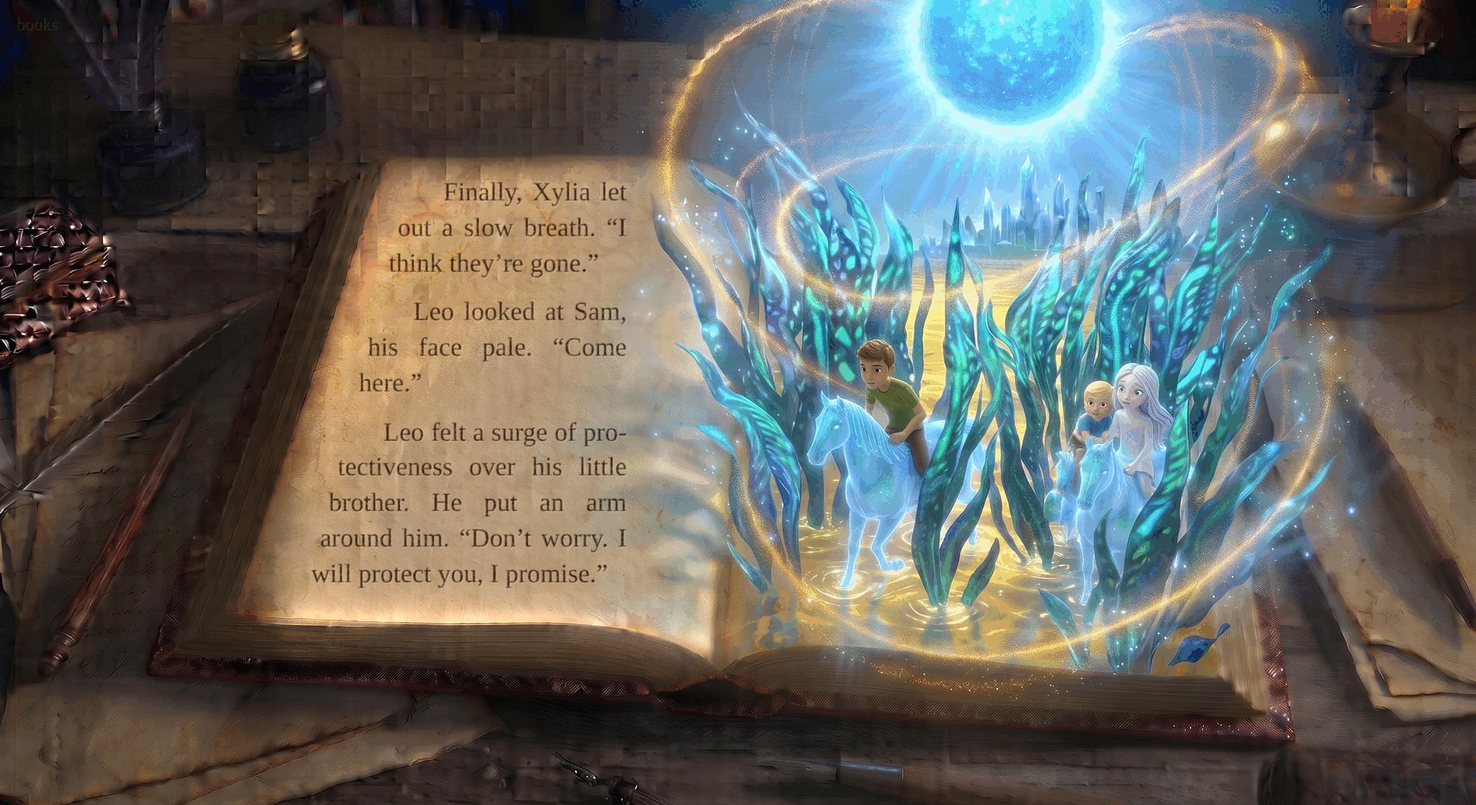
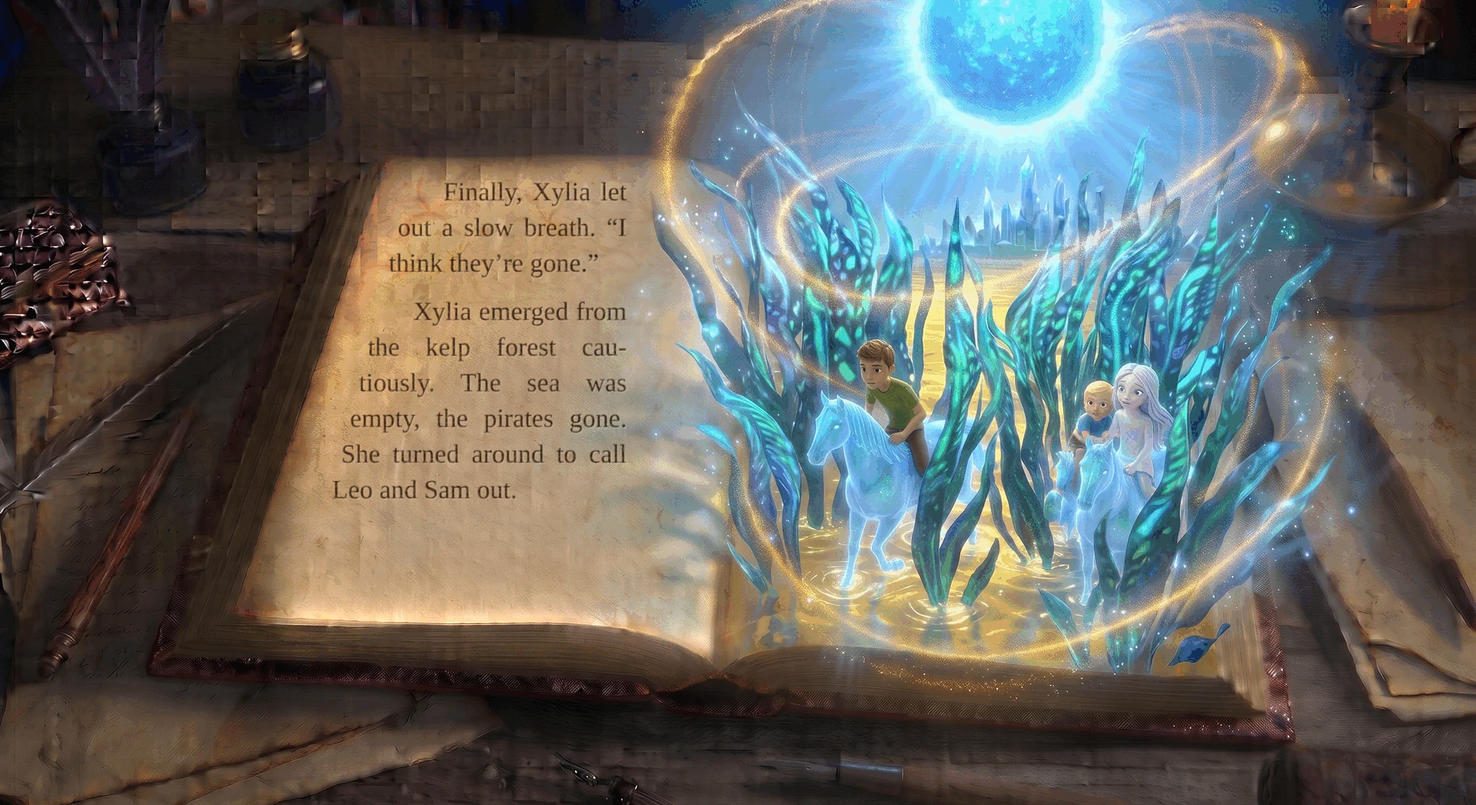
Move Xylia-emerged paragraph to page 94, drop Leo protects Sam lines
Claude-Session: https://claude.ai/code/session_01BFtifSTdmWYaAK88ECs5PE

Changed region(s): [[0.2188, 0.375, 0.4375, 0.7188]]

diff --git a/books/upside-down-world/story.js b/books/upside-down-world/story.js
@@ -95,8 +95,8 @@ window.STORY={"title":"The Upside-Down World","author":"M. A. Mafodh","pages":[
 {"img":"p37","book":true,"box":[374,172,552,596],"parts":["The long, glowing strands of kelp closed around them, hiding them from view. They could hear the pirate wagon zipping past, its engines rumbling. They stayed silent, breathing quietly, hidden in the swaying, silent light.\nFor a long minute, the only sound was the gentle hum of the kelp and their own thumping hearts."],"video":"p37v"},
 {"img":"p37c","book":true,"box":[374,172,552,596],"parts":["While Leo kept watch through the glowing stalks, Sam noticed a tiny, winged sea-hamster tangled in a scrap of dark, crackling pirate netting snagged on a kelp root. The dark cords hissed with purple shadow-energy, but Sam didn't hesitate."],"video":"p37cv"},
 {"img":"p37d","book":true,"box":[374,172,552,596],"parts":["He pressed his small hands over the knots. A warm, golden pulse flared from his palms, dissolving the dark netting into harmless mist. The grateful little creature chirped softly, nudged Sam's cheek, and zipped up toward the top of the kelp canopy."],"video":"p37dv"},
-{"img":"p37b","sprite":"p37k","dust":true,"book":true,"box":[374,170,584,596],"parts":["Finally, Xylia let out a slow breath. \"I think they're gone.\"\nLeo looked at Sam, his face pale. \"Come here.\"\nLeo felt a surge of protectiveness over his little brother. He put an arm around him. \"Don't worry. I will protect you, I promise.\""]},
-{"img":"p38","sprite":"p38k","dust":true,"book":true,"box":[374,170,584,596],"parts":["Xylia emerged from the kelp forest cautiously. The sea was empty, the pirates gone. She turned around to call Leo and Sam out.\nA pirate wagon showed up out of nowhere and kidnapped the future queen."]},
+{"img":"p37b","sprite":"p37k","dust":true,"book":true,"box":[374,170,584,596],"parts":["Finally, Xylia let out a slow breath. \"I think they're gone.\"\nXylia emerged from the kelp forest cautiously. The sea was empty, the pirates gone. She turned around to call Leo and Sam out."]},
+{"img":"p38","sprite":"p38k","dust":true,"book":true,"box":[374,170,584,596],"parts":["A pirate wagon showed up out of nowhere and kidnapped the future queen."]},
 {"img":"p38b","sprite":"p38k","dust":true,"book":true,"box":[374,170,584,596],"parts":["Her scream turned into a choked gasp as a claw from the pirate wagon, like a metal hand, snatched her right off her blue horse.\n\"Xylia!\" Leo screamed, but it was too late. The wagon zoomed away, a trail of black smoke behind it. Xylia was gone."]},
 {"img":"p39","sprite":"p39k","dust":true,"book":true,"box":[374,170,584,596],"parts":["Sam started to cry, silent tears streaming down his face. \"They took her.\"\nLeo was scared, so scared he thought he might be sick. But looking at Sam's crying face, something else pushed the fear away. Anger. He was the big brother. He had to be brave.\nHe pulled Sam close."]},
 {"img":"p39b","sprite":"p39k","dust":true,"book":true,"box":[374,170,584,596],"parts":["\"We're going to get her back,\" he said, his voice shaking but firm. \"We are the only ones who can help her. They don't know who they're messing with.\"\nSam sniffled, wiping his nose on his sleeve. \"How? They have a wagon and cannonballs! We just have a... a blue horse.\""]},

diff --git a/books/upside-down-world/index.html b/books/upside-down-world/index.html
@@ -131,7 +131,7 @@ body.narrow #bar{gap:6px;padding-top:8px}body.narrow #bar button{padding:0 12px;
   <button id="auto" aria-pressed="true" title="Turn the pages by itself">Auto turn</button>
   <button id="next" aria-label="Next page">&#8594;</button>
 </div>
-<script src="story.js?v=107"></script>
+<script src="story.js?v=108"></script>
 <script src="sprite.js?v=42"></script>
 <script src="lyrics.js?v=2"></script><script src="lyrics2.js?v=1"></script>
 <script src="voice.js?v=20"></script>
@@ -217,7 +217,7 @@ const vids={};let blackT=null;
 function black(){if(!blackT&&gl){blackT=gl.createTexture();gl.bindTexture(gl.TEXTURE_2D,blackT);gl.texImage2D(gl.TEXTURE_2D,0,gl.RGB,1,1,0,gl.RGB,gl.UNSIGNED_BYTE,new Uint8Array([0,0,0]));}return {ready:true,t:blackT};}
 function loadVid(name){if(vids[name])return vids[name];const v=document.createElement('video');v.muted=true;v.defaultMuted=true;v.loop=true;v.playsInline=true;v.setAttribute('playsinline','');v.setAttribute('muted','');v.preload='auto';v.crossOrigin='anonymous';v.src='img/'+name+'.mp4?v=55';
   const o={v,t:null,ok:false};v.addEventListener('playing',()=>{o.ok=true;});vids[name]=o;return o;}
-function pageTex(p){if(p.video)return {c:loadTex('img/'+p.img+'.webp?v=64'),d:p.relief?loadTex('img/'+p.img+'-d.webp'):black(),vid:loadVid(p.video)};return {c:loadTex('img/'+p.img+'.webp?v=64'),d:loadTex('img/'+p.img+'-d.webp')};}
+function pageTex(p){if(p.video)return {c:loadTex('img/'+p.img+'.webp?v=65'),d:p.relief?loadTex('img/'+p.img+'-d.webp'):black(),vid:loadVid(p.video)};return {c:loadTex('img/'+p.img+'.webp?v=65'),d:loadTex('img/'+p.img+'-d.webp')};}
 const ORIGIN={kb:[.72,.55],shade:[.80,.74]};
 function whv(p){return p.whale?[p.whale[0]/1408,p.whale[1]/768,p.whale[2]/1408,p.whale[3]/768]:[0,0,0,0];}
 function swv(p){return p.swirl?[p.swirl[0]/1408,p.swirl[1]/768,p.swirl[2],p.swirl[3]||0]:[0,0,0,0];}
@@ -242,7 +242,7 @@ function makeLayer(i){
   if(layers[i])return layers[i];
   const p=P[i],L=document.createElement('div');L.className='layer';
   const kb=document.createElement('div');kb.className='kb';kb.style.transformOrigin=(p.fx==='shade'?'80% 74%':'72% 55%');
-  if(!gl){let im;if(p.video){im=loadVid(p.video).v;im.poster='img/'+p.img+'.webp';}else{im=new Image();im.src='img/'+p.img+'.webp?v=64';im.alt='';}im.className='fb';kb.appendChild(im);}
+  if(!gl){let im;if(p.video){im=loadVid(p.video).v;im.poster='img/'+p.img+'.webp';}else{im=new Image();im.src='img/'+p.img+'.webp?v=65';im.alt='';}im.className='fb';kb.appendChild(im);}
   if(p.fx==='shade'){const s=document.createElement('div');s.className='shade';kb.appendChild(s);L._shade=s;}
   if(p.song){const r=document.createElement('div');r.className='rings';r.style.cssText='left:'+(650/W*100)+'%;top:'+(55/H*100)+'%;width:'+(130/W*100)+'%;height:'+(130/H*100)+'%';r.innerHTML='<i></i><i></i><i></i><i></i>';kb.appendChild(r);L._rings=r;}
   const t=document.createElement('div');t.className='txt'+(p.cover?' cover':'')+(p.book?' bk':'')+(p.songcard?' sc':'')+(p.big?' big':'');let b=p.box;
